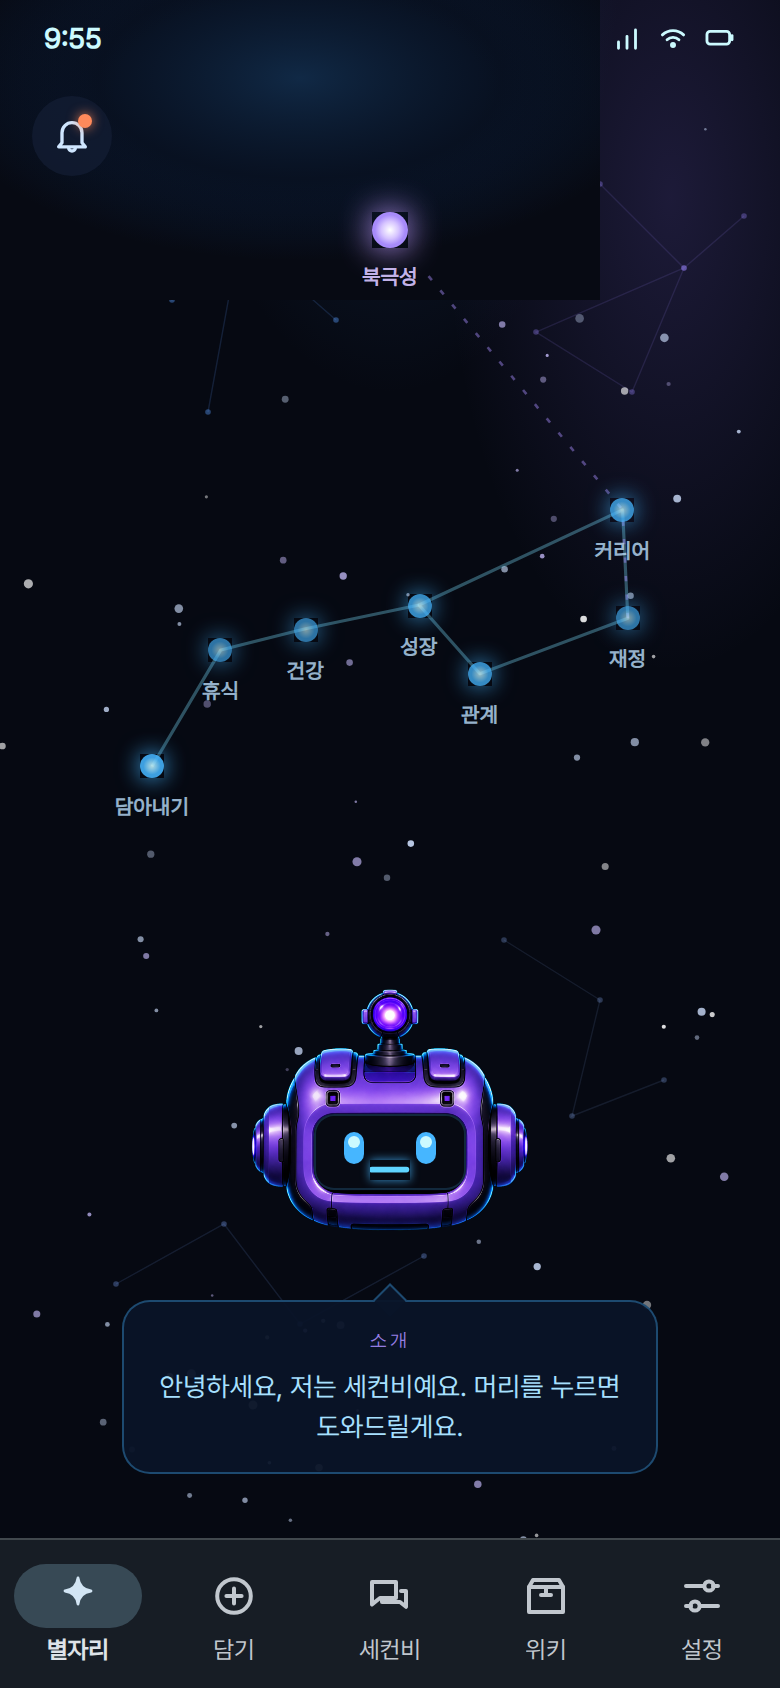
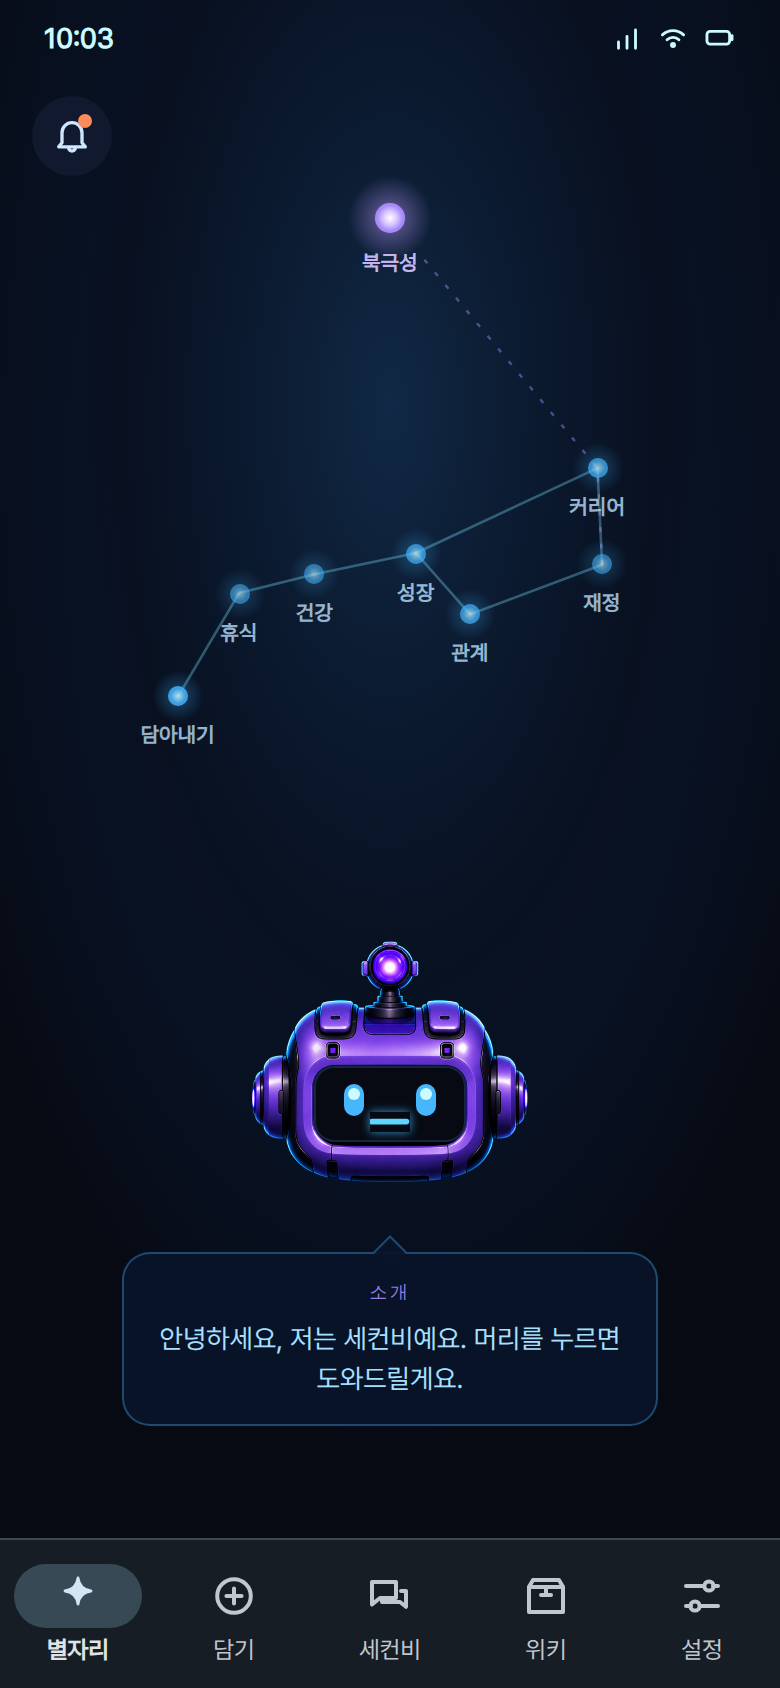
fix(deepspace): home fidelity pass — full-bleed bg, tighter constellation, round polaris
Round 2 vs reference 05-home: (1) stage-wash SVG now sized to window (no
clipped rectangle seam), (2) constellation top-anchored + scaled to upper ~45%,
(3) 북극성 glow drawn as in-SVG radial halo (was a boxy RN shadow), (4) star
dots/glow reduced to match the reference's delicate stars.

diff --git a/src/screens/deepspace/DeepSpaceHomeScreen.tsx b/src/screens/deepspace/DeepSpaceHomeScreen.tsx
@@ -45,8 +45,12 @@ const POLARIS_GUIDE = "M230,131 L228,90 L140,-16";
 
 const VBW = 280;
 const VBH = 230;
-const DOT = 12;
-const BIG_DOT = 18;
+// Delicate stars (fidelity pass): dot core + a soft radial glow drawn INSIDE the
+// SVG (no RN box-shadow, which rendered a dark rounded square behind the dot).
+const DOT = 10;
+const BIG_DOT = 15;
+const GLOW = 26;
+const BIG_GLOW = 42;
 
 // sb-home starOpacity: big -> 1, else 0.36 + level/5 * 0.64.
 function starOpacity(s: HomeStar): number {
@@ -57,40 +61,39 @@ function starOpacity(s: HomeStar): number {
 
 function StarDot({ star, cx, cy }: { star: HomeStar; cx: number; cy: number }) {
   const dot = star.big ? BIG_DOT : DOT;
-  const gid = `star-${star.id}`;
+  const glow = star.big ? BIG_GLOW : GLOW;
+  const core = `core-${star.id}`;
+  const halo = `halo-${star.id}`;
+  const glowColor = star.big ? m3.accent.polarisGlow : m3.accent.starCore;
+  const c = glow / 2;
   return (
     <>
       <View
         pointerEvents="none"
-        style={[
-          styles.dotWrap,
-          {
-            left: cx - dot / 2,
-            top: cy - dot / 2,
-            width: dot,
-            height: dot,
-            opacity: starOpacity(star),
-            shadowColor: star.big ? m3.accent.polarisGlow : m3.accent.starCore,
-            shadowRadius: star.big ? 16 : 11,
-          },
-        ]}
+        style={{ position: "absolute", left: cx - c, top: cy - c, width: glow, height: glow, opacity: starOpacity(star) }}
       >
-        <Svg width={dot} height={dot}>
+        <Svg width={glow} height={glow}>
           <Defs>
+            <RadialGradient id={halo} cx="50%" cy="50%" r="50%">
+              <Stop offset="0" stopColor={glowColor} stopOpacity={star.big ? 0.85 : 0.7} />
+              <Stop offset="0.4" stopColor={glowColor} stopOpacity={star.big ? 0.34 : 0.24} />
+              <Stop offset="1" stopColor={glowColor} stopOpacity={0} />
+            </RadialGradient>
             {star.big ? (
-              <RadialGradient id={gid} cx="50%" cy="50%" r="50%">
+              <RadialGradient id={core} cx="50%" cy="50%" r="50%">
                 <Stop offset="0" stopColor={m3.accent.skyStarWhite} />
                 <Stop offset="0.48" stopColor={m3.accent.polarisSoft} />
                 <Stop offset="0.84" stopColor={m3.accent.moodNeutral} />
               </RadialGradient>
             ) : (
-              <RadialGradient id={gid} cx="50%" cy="50%" r="50%">
+              <RadialGradient id={core} cx="50%" cy="50%" r="50%">
                 <Stop offset="0" stopColor={m3.accent.star} />
                 <Stop offset="0.72" stopColor={m3.accent.starCore} />
               </RadialGradient>
             )}
           </Defs>
-          <Circle cx={dot / 2} cy={dot / 2} r={dot / 2} fill={`url(#${gid})`} />
+          <Circle cx={c} cy={c} r={c} fill={`url(#${halo})`} />
+          <Circle cx={c} cy={c} r={dot / 2} fill={`url(#${core})`} />
         </Svg>
       </View>
       <Text
@@ -113,8 +116,10 @@ function StarDot({ star, cx, cy }: { star: HomeStar; cx: number; cy: number }) {
 
 export function DeepSpaceHomeScreen() {
   const router = useRouter();
-  const { width } = useWindowDimensions();
-  const boxW = Math.min(width - 20, 400);
+  const { width, height } = useWindowDimensions();
+  // Compact dipper anchored high (fidelity pass): smaller box + top-anchored so it
+  // sits in the top ~45% and leaves the lower half for the head + bubble.
+  const boxW = Math.min(width - 44, 330);
   const boxH = boxW * (VBH / VBW);
   const sx = boxW / VBW;
   const sy = boxH / VBH;
@@ -122,10 +127,12 @@ export function DeepSpaceHomeScreen() {
   return (
     <PhoneShell variant="immersive" activeNav="home">
       <View style={styles.stage}>
-        {/* deep-space neural field — radial stage glow + vignette (sb-home bg) */}
-        <Svg style={StyleSheet.absoluteFill} pointerEvents="none">
+        {/* deep-space neural field — a single FULL-BLEED radial wash + vignette.
+            Sized to the window (not "100%") so react-native-svg fills edge-to-edge
+            with no intrinsic-size seam. */}
+        <Svg width={width} height={height} style={StyleSheet.absoluteFill} pointerEvents="none">
           <Defs>
-            <RadialGradient id="home-stage" cx="50%" cy="26%" r="80%">
+            <RadialGradient id="home-stage" cx="50%" cy="24%" r="82%">
               <Stop offset="0" stopColor={m3.accent.stageGlow} stopOpacity={0.5} />
               <Stop offset="0.42" stopColor={m3.accent.skySurface} stopOpacity={0.3} />
               <Stop offset="0.76" stopColor={m3.accent.stageFloor} stopOpacity={1} />
@@ -136,9 +143,9 @@ export function DeepSpaceHomeScreen() {
               <Stop offset="1" stopColor={m3.accent.stageFloor} stopOpacity={0.62} />
             </RadialGradient>
           </Defs>
-          <Rect x="0" y="0" width="100%" height="100%" fill={m3.accent.stageFloor} />
-          <Rect x="0" y="0" width="100%" height="100%" fill="url(#home-stage)" />
-          <Rect x="0" y="0" width="100%" height="100%" fill="url(#home-vignette)" />
+          <Rect x={0} y={0} width={width} height={height} fill={m3.accent.stageFloor} />
+          <Rect x={0} y={0} width={width} height={height} fill="url(#home-stage)" />
+          <Rect x={0} y={0} width={width} height={height} fill="url(#home-vignette)" />
         </Svg>
 
         {/* home inbox bell — top-left, alert dot; no stray back button, no 9:41 */}
@@ -152,7 +159,7 @@ export function DeepSpaceHomeScreen() {
           <View style={styles.bellDot} />
         </Pressable>
 
-        {/* constellation region */}
+        {/* constellation — top-anchored block */}
         <View style={styles.constellationRegion}>
           <View style={{ width: boxW, height: boxH }}>
             <Svg
@@ -164,7 +171,7 @@ export function DeepSpaceHomeScreen() {
               pointerEvents="none"
             >
               {STAR_LINES.map((d, i) => (
-                <Path key={i} d={d} fill="none" stroke={withAlpha(m3.accent.dipperLine, 0.34)} strokeWidth={1.2} strokeLinejoin="round" />
+                <Path key={i} d={d} fill="none" stroke={withAlpha(m3.accent.dipperLine, 0.34)} strokeWidth={1.1} strokeLinejoin="round" />
               ))}
               <Path d={POLARIS_GUIDE} fill="none" stroke={withAlpha(m3.accent.moodNeutral, 0.45)} strokeWidth={1} strokeDasharray="2 5" />
             </Svg>
@@ -174,7 +181,7 @@ export function DeepSpaceHomeScreen() {
           </View>
         </View>
 
-        {/* head + speech bubble */}
+        {/* head + speech bubble — lower ~55% */}
         <View style={styles.headRegion}>
           <SecondbHead mood="neutral" size={160} accessibilityLabel="세컨비" />
           <View style={styles.bubble}>
@@ -210,21 +217,10 @@ const styles = StyleSheet.create({
     height: 7,
     borderRadius: 3.5,
     backgroundColor: m3.accent.alertDot,
-    shadowColor: m3.accent.alertDot,
-    shadowOpacity: 0.9,
-    shadowRadius: 6,
-    shadowOffset: { width: 0, height: 0 },
-    elevation: 4,
   },
-  constellationRegion: { flex: 1, minHeight: 0, alignItems: "center", justifyContent: "center", paddingTop: 84 },
-  dotWrap: {
-    position: "absolute",
-    alignItems: "center",
-    justifyContent: "center",
-    shadowOpacity: 0.9,
-    shadowOffset: { width: 0, height: 0 },
-    elevation: 6,
-  },
+  // Top-anchored (not flex-centered) so the dipper sits high; paddingTop matches
+  // the prototype's stage offset and gives the negative-y 북극성 room to render.
+  constellationRegion: { alignItems: "center", paddingTop: 84 },
   starLabel: {
     position: "absolute",
     width: 80,